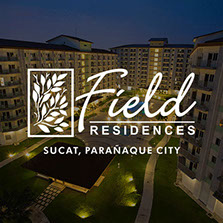
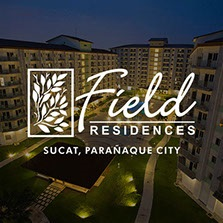
Update Field residences thumb

diff --git a/Properties.html b/Properties.html
@@ -112,7 +112,7 @@
                         </div>
                         <div class="col-md-4 col-xs-12 mx-auto">
                             <div class="card-body">
-                                <a href="property/field-residences.html"><img class="rounded img-fluid" src="images/properties/field-residences/smdc-field-residences.jpg" /></a>
+                                <a href="property/field-residences.html"><img class="rounded img-fluid" src="images/properties/field-residences/smdc-field-residences.JPG" /></a>
                             </div>
                         </div>
                         <div class="col-md-4 col-xs-12 mx-auto">
